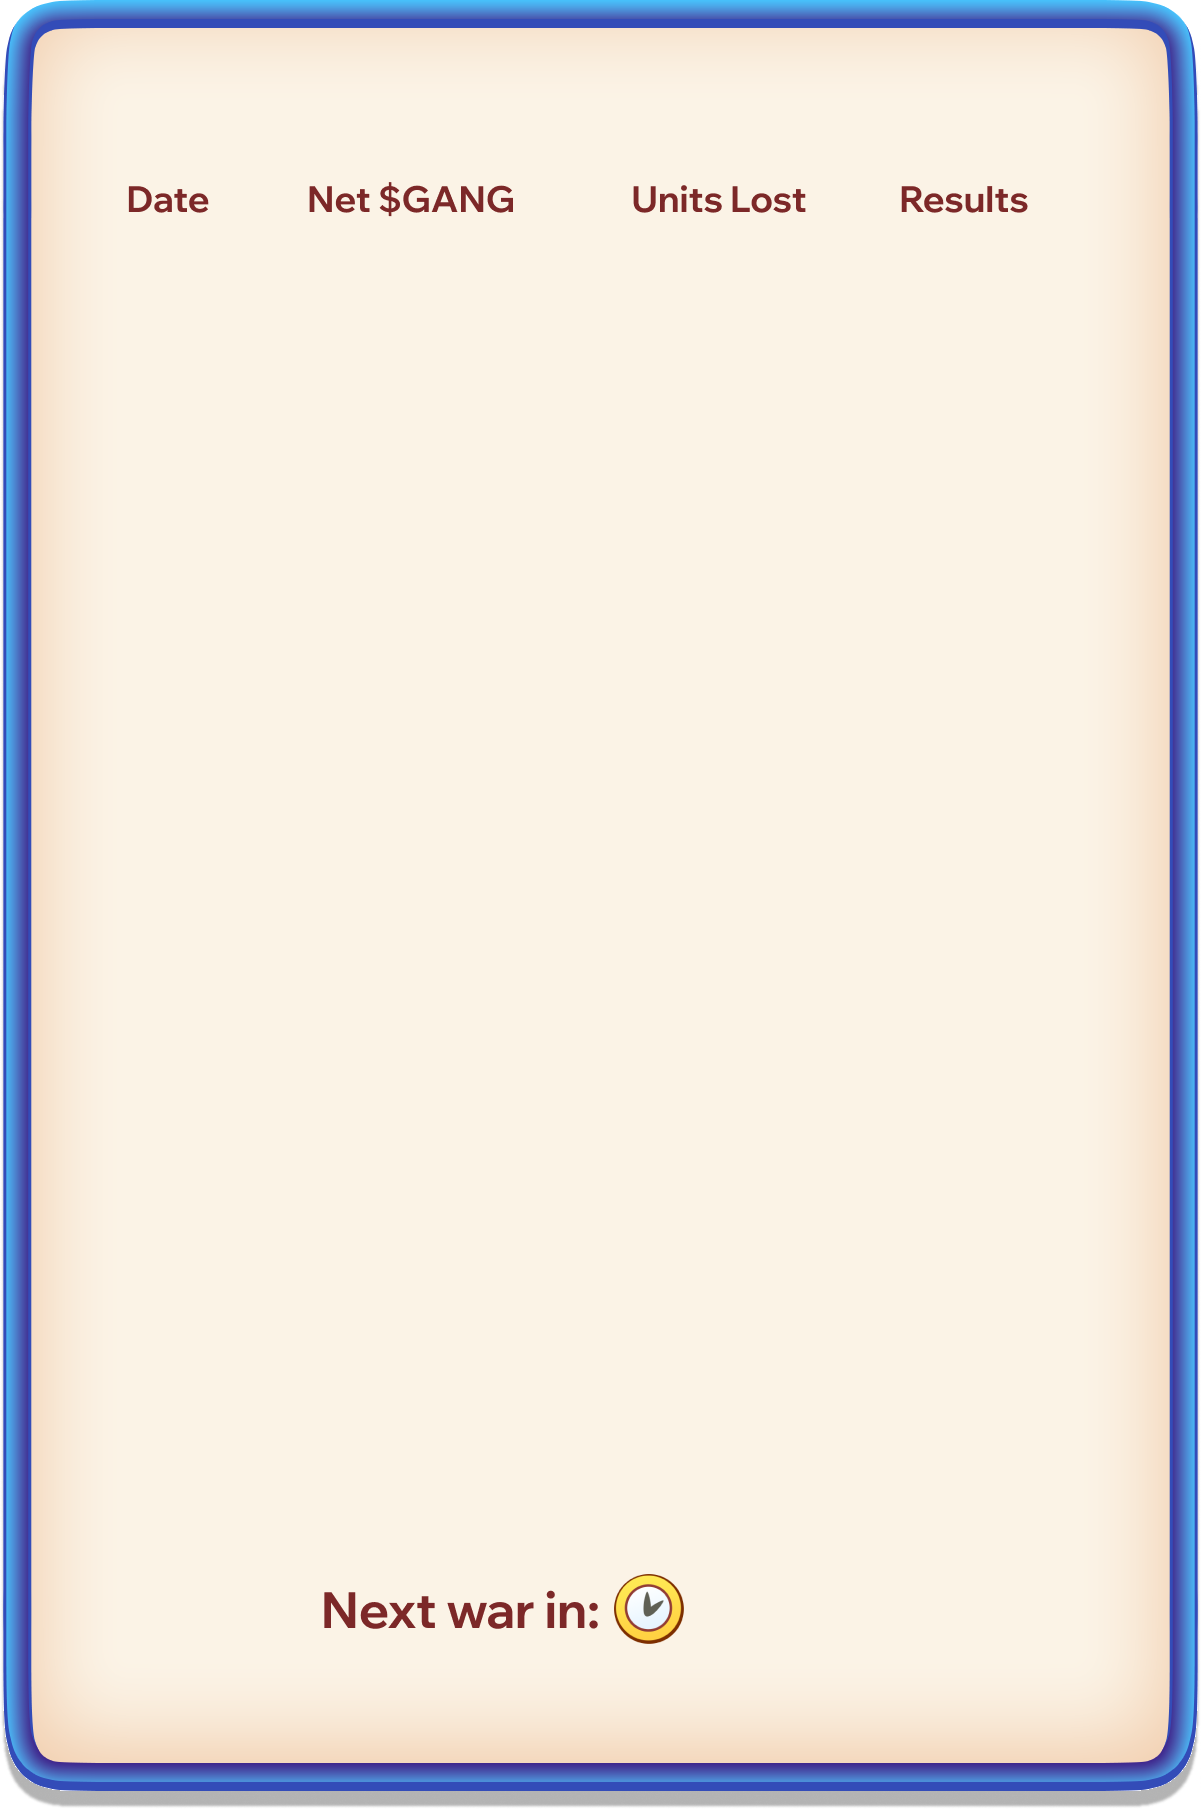
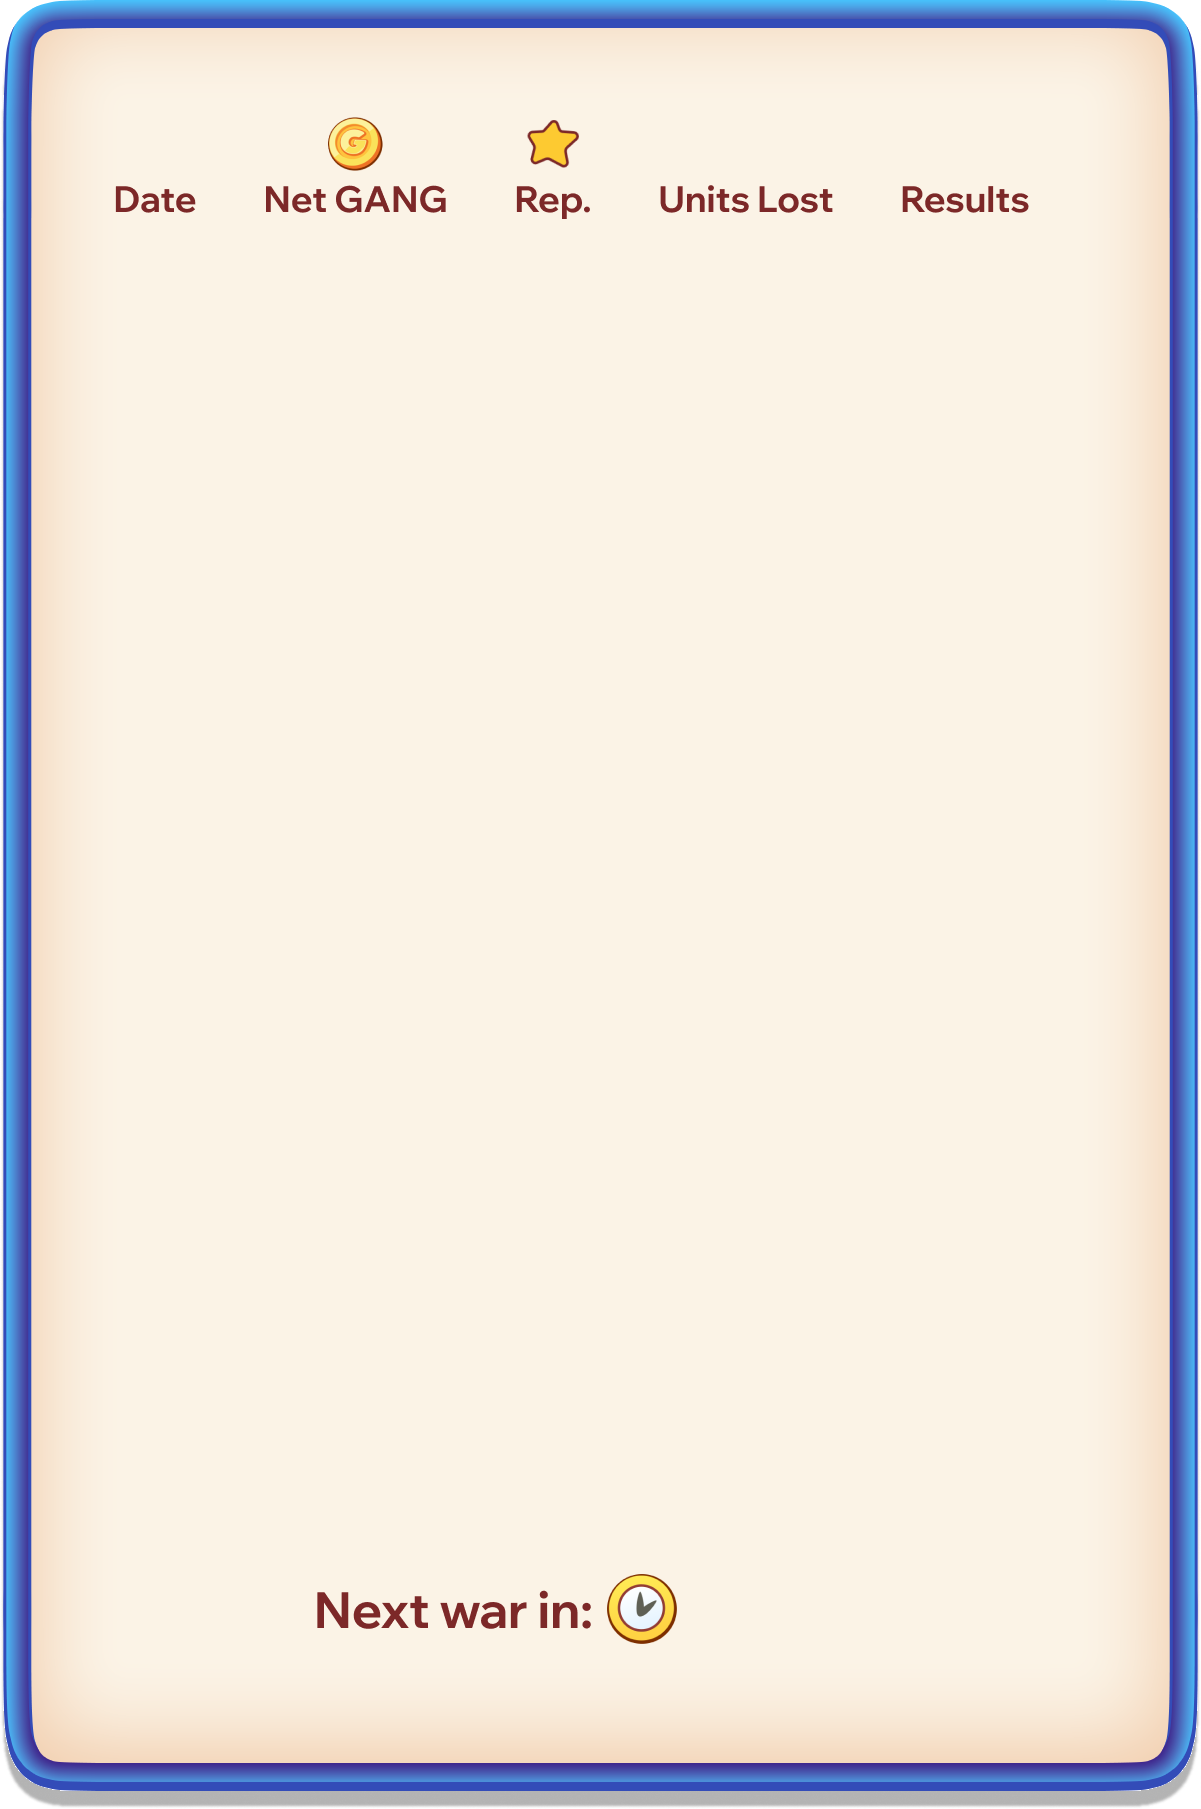
feat: war history new UI

diff --git a/app/src/pages/Game/components/popup/PopupWarHistory.js b/app/src/pages/Game/components/popup/PopupWarHistory.js
@@ -1,6 +1,7 @@
 import { ScrollablePanel } from 'phaser3-rex-plugins/templates/ui/ui-components.js';
 
 import Popup from './Popup';
+import Button from '../button/Button';
 import TextButton from '../button/TextButton';
 import configs from '../../configs/configs';
 import { colors, fontFamilies, fontSizes } from '../../../../utils/styles';
@@ -80,55 +81,59 @@ class PopupWarHistory extends Popup {
         const bg = this.scene.add.image(this.popup.width / 2 - 90, y, 'row-container').setOrigin(0.5, 0);
         this.items.push(bg);
       }
-      const { id, warSnapshotId, date, totalTokenReward, machinesLost } = this.data[i];
+      const { id, warSnapshotId, date, totalTokenReward, machinesLost, gainedReputation } = this.data[i];
       const dateText = this.scene.add
         .text(this.popup.width * 0.07, y + rowHeight / 2, date, smallBlackBoldCenter)
         .setOrigin(0.5, 0.5);
       const prefix = totalTokenReward > 0 ? '+' : '-';
       const color = totalTokenReward > 0 ? colors.black : '#7C2828';
       const totalTokenRewardText = this.scene.add
-        .text(this.popup.width * 0.25, y + rowHeight / 2, `${prefix}${formatter.format(totalTokenReward || 0)}`, {
+        .text(this.popup.width * 0.23, y + rowHeight / 2, `${prefix}${formatter.format(totalTokenReward || 0)}`, {
           ...smallBlackBoldCenter,
           color,
         })
         .setOrigin(0.5, 0.5);
-      const totalTokenRewardIcon = this.scene.add
-        .image(this.popup.width * 0.25 + totalTokenRewardText.width / 2 + 30, y + rowHeight / 2, 'coin3')
+      const gainReputationText = this.scene.add
+        .text(
+          this.popup.width * 0.39,
+          y + rowHeight / 2,
+          `+${formatter.format(gainedReputation || 0)}`,
+          smallBlackBoldCenter
+        )
         .setOrigin(0.5, 0.5);
 
-      const viewBtn = new TextButton(
+      const viewBtn = new Button(
         this.scene,
         this.popup.width * 0.75,
         y + rowHeight / 2,
-        'button-blue-small',
-        'button-blue-small',
+        'icon-search-contained',
+        'icon-search-contained',
         () => {
           this.loading = false;
           this.scene.popupWarHistoryDetail?.updateWarIds({ warSnapshotId, warResultId: id });
           this.close();
           this.scene.popupWarHistoryDetail?.open();
         },
-        'View',
         { fontSize: '36px', sound: 'open' }
       );
 
-      this.items.push(dateText, totalTokenRewardText, totalTokenRewardIcon, viewBtn);
+      this.items.push(dateText, totalTokenRewardText, gainReputationText, viewBtn);
 
       if (machinesLost && machinesLost > 0) {
         const machinesLostText = this.scene.add
-          .text(this.popup.width * 0.5, y + rowHeight / 2, `-${machinesLost || 0}`, {
+          .text(this.popup.width * 0.52, y + rowHeight / 2, `-${machinesLost || 0}`, {
             ...smallBlackBoldCenter,
             color: '#E93D45',
           })
           .setOrigin(0.5, 0.5);
         const machinesLostIcon = this.scene.add
-          .image(this.popup.width * 0.5 + machinesLostText.width / 2 + 45, y + rowHeight / 2, 'icon-gangster-mini')
+          .image(this.popup.width * 0.52 + machinesLostText.width / 2 + 45, y + rowHeight / 2, 'icon-gangster-mini')
           .setOrigin(0.5, 0.5);
 
         this.items.push(machinesLostText, machinesLostIcon);
       } else {
         const machineNoLostText = this.scene.add
-          .text(this.popup.width * 0.5 + 40, y + rowHeight / 2, `-`, smallBlackBoldCenter)
+          .text(this.popup.width * 0.52 + 40, y + rowHeight / 2, `-`, smallBlackBoldCenter)
           .setOrigin(0.5, 0.5);
         this.items.push(machineNoLostText);
       }

diff --git a/app/src/pages/Game/scenes/LoadingScene.js b/app/src/pages/Game/scenes/LoadingScene.js
@@ -354,6 +354,7 @@ class LoadingScene extends Phaser.Scene {
     this.load.image('icon-safehouse-medium', '/images/icons/safehouse-medium.png');
     this.load.image('icon-safehouse-upgrade-done', '/images/icons/safehouse-upgrade-done.png');
     this.load.image('icon-safehouse-upgrade-fail', '/images/icons/safehouse-upgrade-fail.png');
+    this.load.image('icon-search-contained', '/images/icons/search-contained.png');
     this.load.image('icon-settings', '/images/icons/settings.png');
     this.load.image('icon-sound-on', '/images/icons/sound-on.png');
     this.load.image('icon-sound-off', '/images/icons/sound-off.png');
